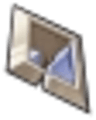
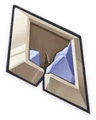
Фикс выбора версии хонихантеров, новые картинки, фикс мыльных картинок

Changed region(s): [[0.0312, 0.025, 0.9688, 0.975]]

diff --git a/lib/parsing/honeyhunter/common.js b/lib/parsing/honeyhunter/common.js
@@ -1,7 +1,7 @@
 import { createReadStream, promises as fs } from 'fs'
 import { GI_ELEMENT_CODES, GI_RARITY_CODES, GI_WEAPON_TYPE_CODES } from '#lib/genshin.js'
 import { mustBeDefined, simpleDeepEqual } from '#lib/utils/values.js'
-import { progress, warn } from '#lib/utils/logs.js'
+import { progress, warn, info } from '#lib/utils/logs.js'
 import {
 	getTextContent,
 	isNode,
@@ -9,6 +9,7 @@ import {
 	nodeHasClass,
 	parseXmlStream,
 	parseXmlString,
+	queryNodes,
 	searchNode,
 	searchNodeNodes,
 	searchNodeWithClass,
@@ -16,12 +17,15 @@ import {
 } from '#lib/xml.js'
 import { getFileCached } from '#lib/requests.js'
 import { ART_SET_ID_VARIANT_PREFIX } from './artifacts.js'
+import { URLSearchParams } from 'url'
 
 const ORIGIN = 'https://genshin.honeyhunterworld.com'
 
 /** @template T @typedef {Map<string,Record<string,T>>} IdLangMap */
 
 /** @typedef {Map<string,string>} Code2ImageUrl */
+
+let versionPageParamCache = /**@type {string|null}*/ (null)
 
 /**
  * @param {string} path
@@ -31,16 +35,45 @@ const ORIGIN = 'https://genshin.honeyhunterworld.com'
  * @returns {Promise<import('#lib/xml').Node>}
  */
 export async function getHoneyPage(path, cacheDir, lang, canRedirect = false) {
+	versionPageParamCache ??= await getPageLatestVersion(cacheDir)
+	return getHoneyPageInner(path, cacheDir, lang, versionPageParamCache, canRedirect)
+}
+/**
+ * @param {string} path
+ * @param {string} cacheDir
+ * @param {string} lang
+ * @param {string|null} version
+ * @param {boolean} canRedirect
+ * @returns {Promise<import('#lib/xml').Node>}
+ */
+async function getHoneyPageInner(path, cacheDir, lang, version, canRedirect) {
 	await fs.mkdir(`${cacheDir}/honeyhunter`, { recursive: true })
 
-	const url = `${ORIGIN}/${path}/`
+	if (path !== '') path += '/'
+	const url = `${ORIGIN}/${path}`
 	const fpath = `${cacheDir}/honeyhunter/${path.replace(/\//g, '-')}-${lang}.html`
-	const data = { lang: lang.toLocaleUpperCase() }
+	const data = { lang: lang.toLocaleUpperCase(), ...(version === null ? {} : { ver: version }) }
 	const cacheUsed = await getFileCached(url, data, fpath, canRedirect, Infinity)
 
 	if (!cacheUsed) await fixInvalidHtml(fpath)
 	if (!cacheUsed) progress()
 	return await parseXmlStream(createReadStream(fpath, { encoding: 'utf-8' }))
+}
+/**
+ * @param {string} cacheDir
+ */
+async function getPageLatestVersion(cacheDir) {
+	const root = await getHoneyPageInner('', cacheDir, 'en', null, false)
+	for (const node of queryNodes(root, '.version_selector option')) {
+		if (getTextContent(node).trim() === 'Latest Live') {
+			const version = new URLSearchParams(node.attrs['value'] ?? '').get('ver')
+			if (version === null) break
+			info(`honeyhunter: latest version: ${version}`)
+			return version
+		}
+	}
+	warn('honeyhunter: can not get the latest version from the main page, using blank value')
+	return ''
 }
 
 /** @param {string} fpath */

diff --git a/scripts/update.js b/scripts/update.js
@@ -78,6 +78,7 @@ import { getEnemyCodeFromName } from '#lib/genshin.js'
 import { extractArtifactsData, getArtifactSpecialGroupCodes } from '#lib/parsing/honeyhunter/artifacts.js'
 import { buildsConvertLangMode } from '#lib/parsing/helperteam/build_texts.js'
 import { extractAbyssStats } from '#lib/parsing/spiralabyss/index.js'
+import { mustBeDefined } from '#lib/utils/values.js'
 
 const HELPERTEAM_DOC_ID = '1gNxZ2xab1J6o1TuNVWMeLOZ7TPOqrsf3SshP5DLvKzI'
 
@@ -145,8 +146,6 @@ const fixes = {
 			characters: [
 				// CHECK
 				{ actually: 'unreleased', name: 'Layla' },
-				{ actually: 'unreleased', name: 'The Wanderer' },
-				{ actually: 'unreleased', name: 'Faruzan' },
 			],
 			weapons: [
 				// CHECK
@@ -154,8 +153,6 @@ const fixes = {
 				{ actually: 'unreleased', name: 'Quartz' },
 				{ actually: 'unreleased', name: 'Amber Bead' },
 				{ actually: 'unreleased', name: 'A Thousand Floating Dreams' },
-				{ actually: 'unreleased', name: 'Floral Rainfall' },
-				{ actually: 'unreleased', name: "Tullaytullah's Remembrance" },
 				// это оружие из квеста, получаемое после квеста оружие называется "Kagotsurube Isshin"
 				{ actually: 'unreleased', name: 'Prized Isshin Blade' },
 			],
@@ -182,10 +179,7 @@ const fixes = {
 			enemies: [
 				/Dendro Hypostasis/, //CHECK: ещё не релизнут
 			],
-			artifacts: [
-				/Desert Pavilion Chronicle/, //CHECK: ещё не релизнут
-				/Flower of Paradise Lost/, //CHECK: ещё не релизнут
-			],
+			artifacts: [],
 			items: [
 				/^Festive Fever$/, //CHECK: два предмета с одинаковым названием (и поэтому одинаковым кодом), пока всё равно не нужны
 			],
@@ -249,7 +243,20 @@ const fixes = {
 		],
 		postProcess: {
 			items: (() => {
-				return []
+				return [
+					// henna-berry был переименован, и на картах ищется по "redcrest"
+					(code2item, code2img) => {
+						const item = code2item['henna-berry']
+						if (!item) return false
+						item.code = 'redcrest'
+						item.name.en = 'Redcrest'
+						code2item[item.code] = item
+						code2img.set(item.code, mustBeDefined(code2img.get('henna-berry')))
+						delete code2item['henna-berry']
+						code2img.delete('henna-berry')
+						return true
+					},
+				]
 			})(),
 			enemies: [
 				// Стаи вишапов нет ни в списке врагов, ни в списке данжей

diff --git a/lib/parsing/honeyhunter/fixes.js b/lib/parsing/honeyhunter/fixes.js
@@ -11,7 +11,7 @@ import { warn } from '#lib/utils/logs.js'
  *   manualEnemyGroups: {origNames:RegExp, name?:Record<string,string>}[],
  *   domainMissingLocations: {code:string, location:import('#lib/genshin').MapLocation, _used?:boolean}[],
  *   postProcess: {
- *     items: (((items:import('#lib/parsing').Code2ItemData) => boolean) & {_used?:boolean})[],
+ *     items: (((items:import('#lib/parsing').Code2ItemData, code2img:Map<string,string>) => boolean) & {_used?:boolean})[],
  *     enemies: (((items:import('#lib/parsing').Code2EnemyData, code2img:Map<string,string>) => boolean) & {_used?:boolean})[],
  *     domains: (((items:import('#lib/parsing').Code2DomainData) => boolean) & {_used?:boolean})[],
  *     weapons: (((items:import('#lib/parsing').Code2WeaponData) => boolean) & {_used?:boolean})[],

diff --git a/lib/xml.js b/lib/xml.js
@@ -94,6 +94,7 @@ export function getMultilineTextContent(node) {
 /**
  * @param {NodeOrText} root
  * @param {string} selectors
+ * @returns {Generator<Node, void, unknown>}
  */
 export function* queryNodes(root, selectors) {
 	if (typeof root === 'string') return
@@ -108,6 +109,7 @@ export function* queryNodes(root, selectors) {
  * @param {string[]} selectors
  * @param {number} fromIndex
  * @param {Set<Node>} foundNodes
+ * @returns {Generator<Node, void, unknown>}
  */
 function* queryNodesInner(root, matchRoot, selectors, fromIndex, foundNodes) {
 	if (typeof root === 'string') return

diff --git a/lib/parsing/honeyhunter/items.js b/lib/parsing/honeyhunter/items.js
@@ -76,7 +76,7 @@ export async function extractItemsData(cacheDir, langs, fixes) {
 		id2item.set(id, item)
 		code2img.set(raw.code, raw.imgUrl)
 	})
-	applyItemsPostFixes(fixes.postProcess.items, id2item, code2item)
+	applyItemsPostFixes(fixes.postProcess.items, id2item, code2item, code2img)
 	sortObject(code2item, ([, a], [, b]) => {
 		return a.types[0].localeCompare(b.types[0]) || a.code.localeCompare(b.code)
 	})
